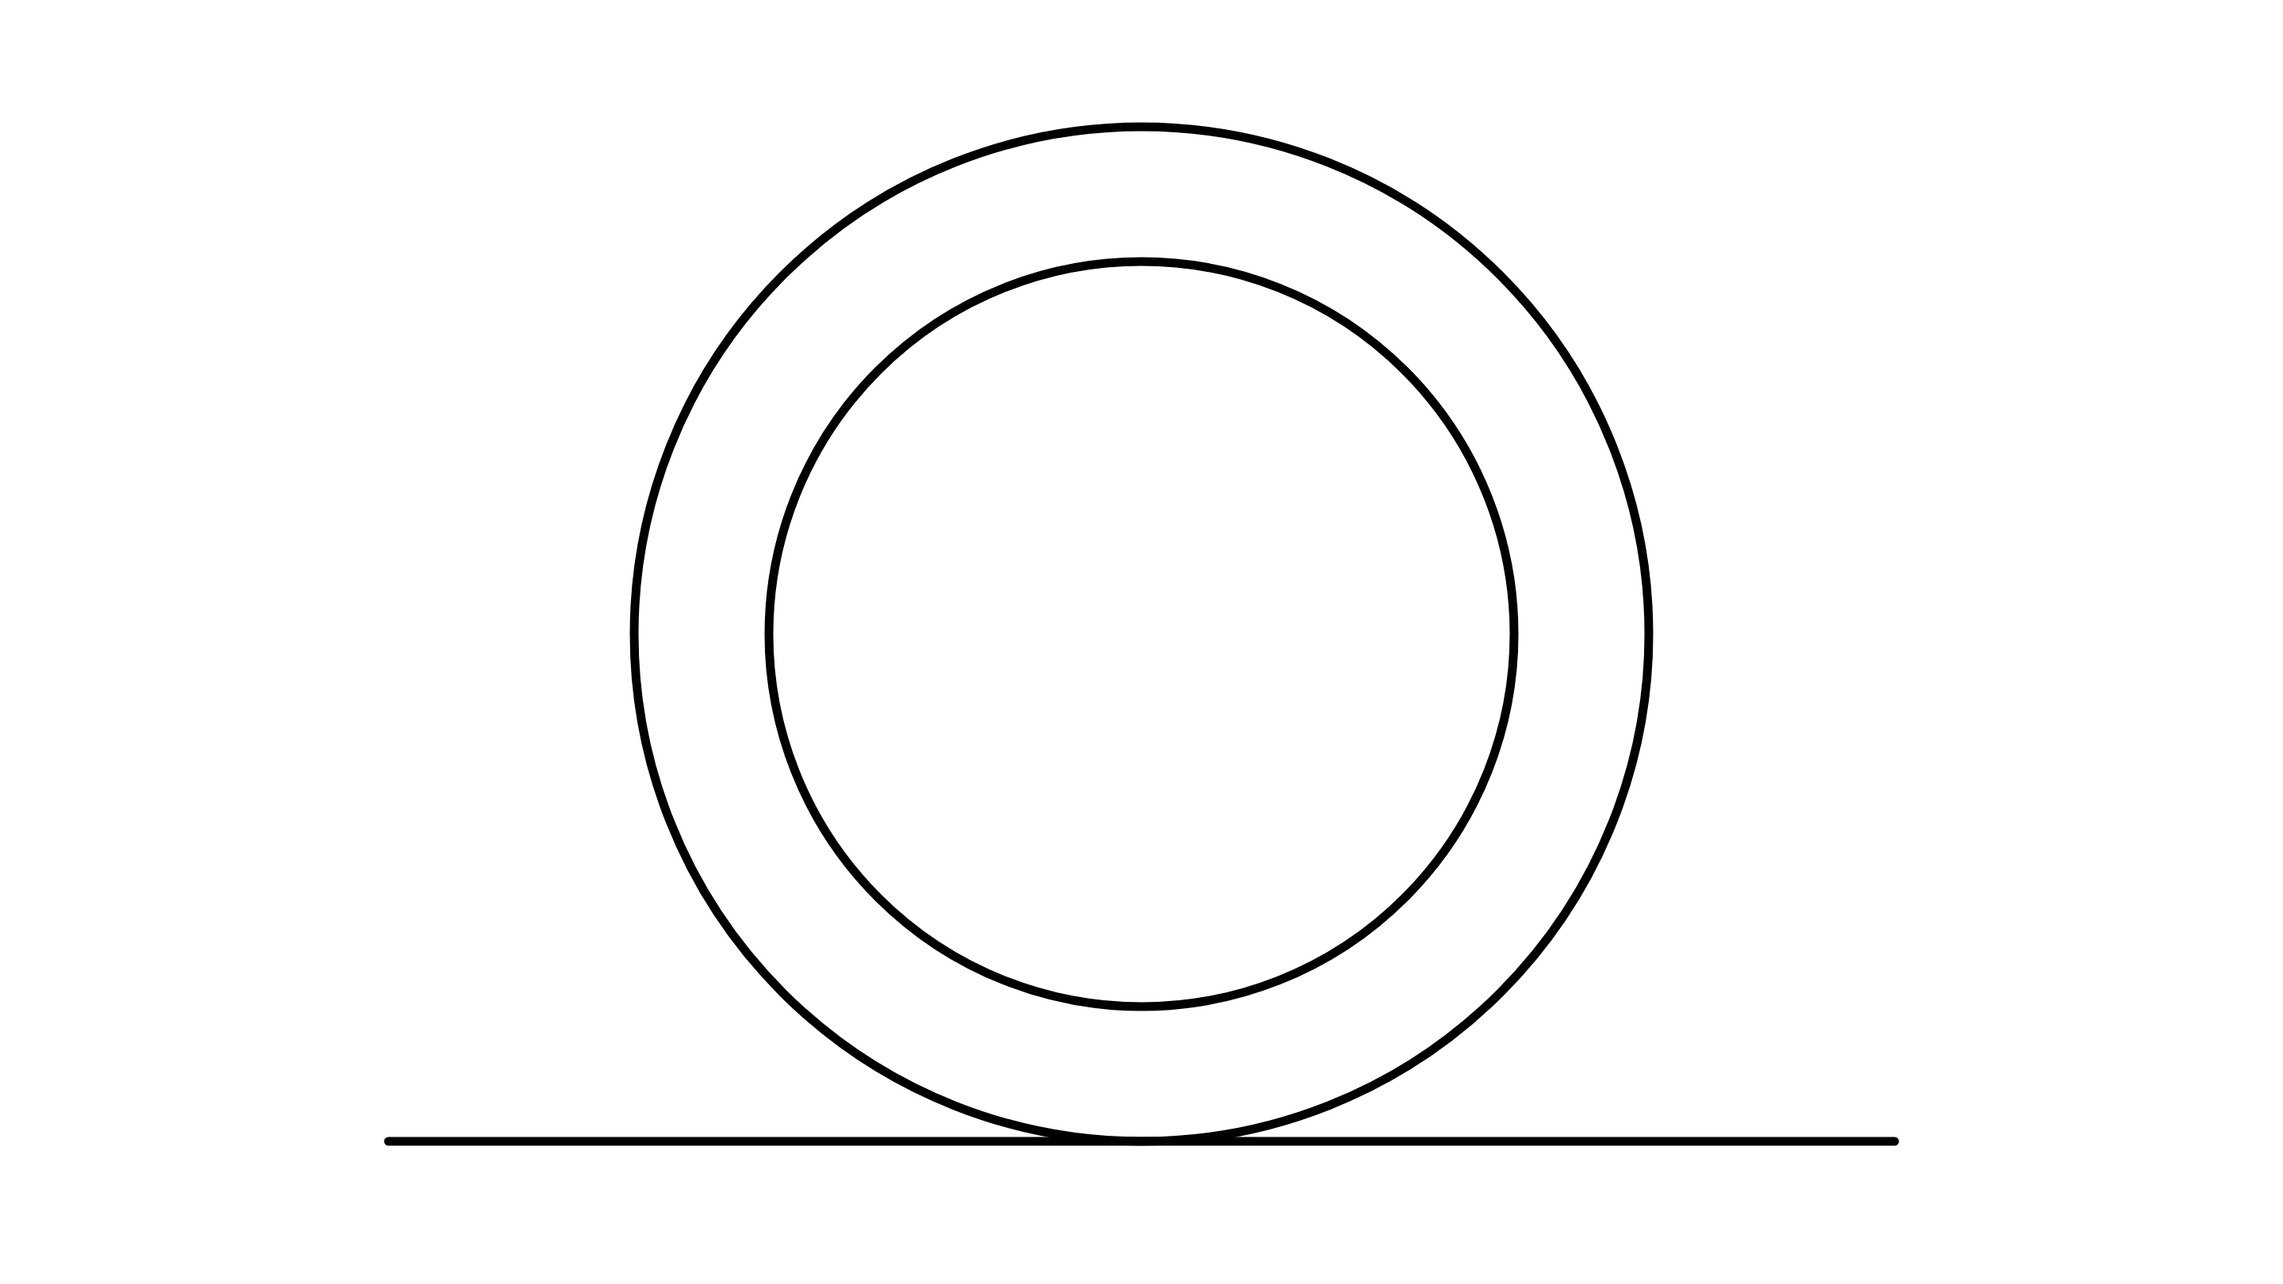
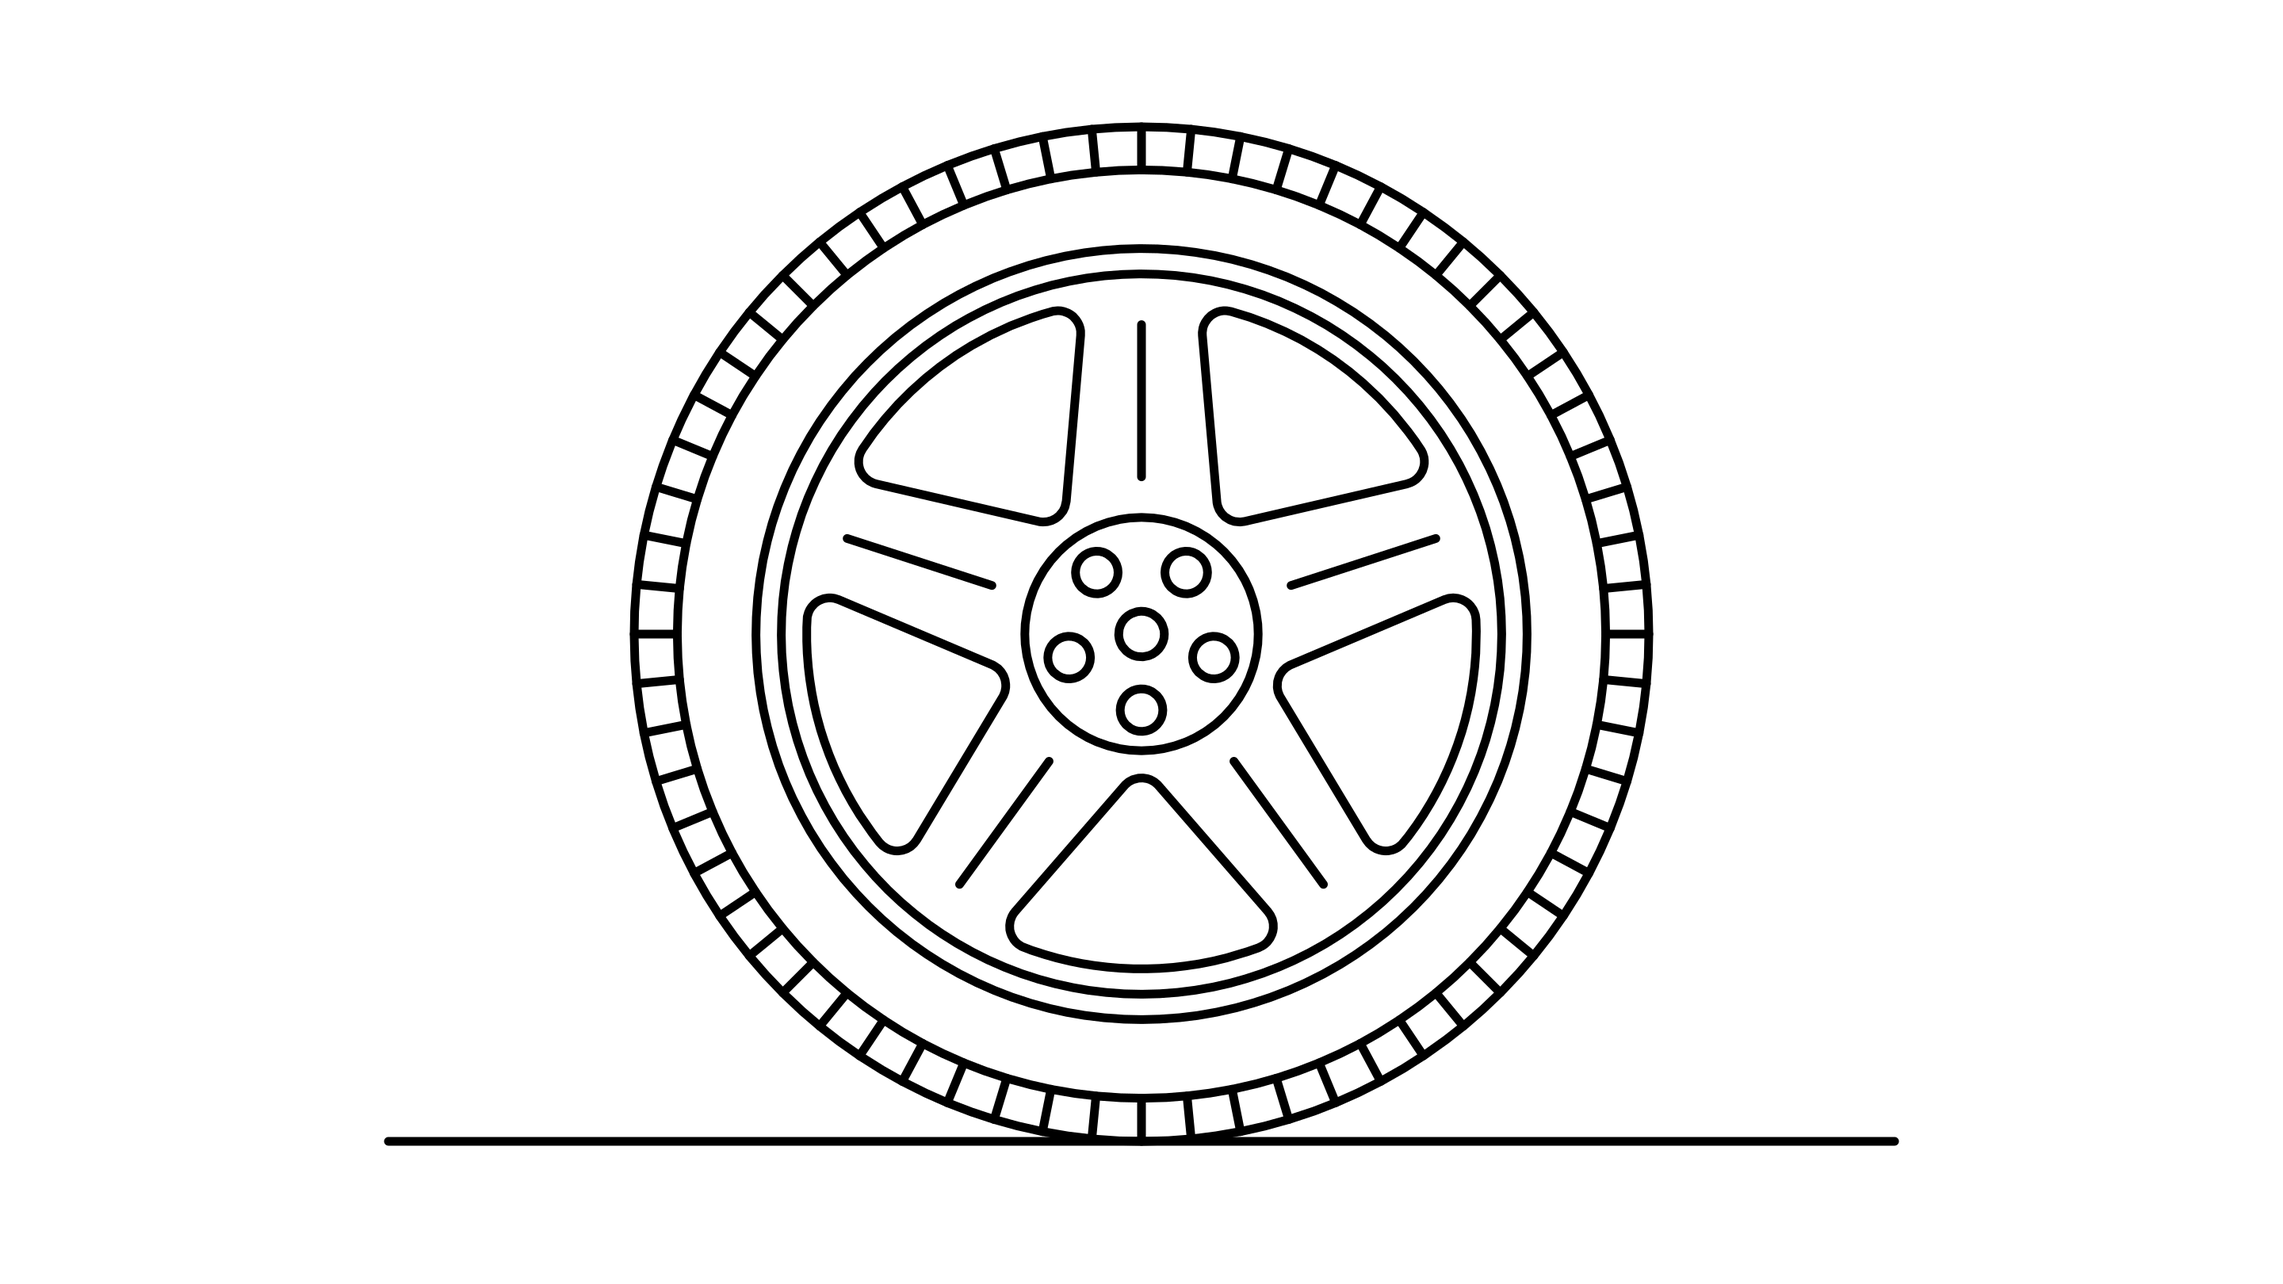
feat: Agregar popup intro a pantalla de Condición y Daños con ejemplos visuales de tipos de daño, popup de horarios de atención en dashboard, y actualizar plantillas PNG de llantas con diseño detallado

Changed region(s): [[0.2812, 0.1852, 0.7188, 0.8025], [0.3438, 0.7407, 0.6562, 0.8951], [0.3438, 0.0926, 0.6562, 0.2469]]

diff --git a/lib/features/dashboard/presentation/dashboard_screen.dart b/lib/features/dashboard/presentation/dashboard_screen.dart
@@ -147,7 +147,7 @@ class DashboardScreen extends ConsumerWidget {
 
                   Center(
                     child: GestureDetector(
-                      onTap: () => _openWhatsApp(),
+                      onTap: () => _showContactPopup(context),
                       child: Text(
                         '¿Necesitas ayuda?',
                         style: AppTypography.titleSmall.copyWith(
@@ -278,6 +278,155 @@ class DashboardScreen extends ConsumerWidget {
     }
   }
 
+  void _showContactPopup(BuildContext context) {
+    final c = context.colors;
+    showModalBottomSheet(
+      context: context,
+      backgroundColor: Colors.transparent,
+      isScrollControlled: true,
+      builder: (ctx) => FractionallySizedBox(
+        heightFactor: 0.96,
+        child: Container(
+          decoration: BoxDecoration(
+            color: c.surface,
+            borderRadius: const BorderRadius.vertical(
+              top: Radius.circular(AppSpacing.radiusXl),
+            ),
+          ),
+          child: Column(
+            crossAxisAlignment: CrossAxisAlignment.start,
+            children: [
+              Padding(
+                padding: const EdgeInsets.fromLTRB(AppSpacing.lg, AppSpacing.lg, AppSpacing.lg, 0),
+                child: Align(
+                  alignment: Alignment.topRight,
+                  child: GestureDetector(
+                    onTap: () => Navigator.of(ctx).pop(),
+                    child: Text(
+                      'Cerrar',
+                      style: AppTypography.bodyMedium.copyWith(fontWeight: FontWeight.w500),
+                    ),
+                  ),
+                ),
+              ),
+              Expanded(
+                child: Padding(
+                  padding: const EdgeInsets.all(AppSpacing.lg),
+                  child: Column(
+                    crossAxisAlignment: CrossAxisAlignment.start,
+                    children: [
+                      Text(
+                        'Nuestro horario\nde atención',
+                        style: AppTypography.headlineSmall.copyWith(fontWeight: FontWeight.w700),
+                      ),
+                      AppSpacing.vGapMd,
+                      Text(
+                        'Estamos disponibles para ayudarte con cualquier duda sobre el registro de tu vehículo.',
+                        style: AppTypography.bodyMedium.copyWith(color: c.textSecondary),
+                      ),
+                      AppSpacing.vGapXxl,
+                      Container(
+                        width: double.infinity,
+                        padding: const EdgeInsets.all(AppSpacing.md),
+                        decoration: BoxDecoration(
+                          color: c.surfaceVariant,
+                          borderRadius: AppSpacing.borderRadiusMd,
+                        ),
+                        child: Row(
+                          children: [
+                            Container(
+                              width: 44,
+                              height: 44,
+                              decoration: BoxDecoration(
+                                color: const Color(0xFF25D366).withValues(alpha: 0.15),
+                                borderRadius: AppSpacing.borderRadiusSm,
+                              ),
+                              child: const Icon(Icons.chat_outlined, color: Color(0xFF25D366), size: 22),
+                            ),
+                            AppSpacing.hGapMd,
+                            Expanded(
+                              child: Column(
+                                crossAxisAlignment: CrossAxisAlignment.start,
+                                children: [
+                                  Text('WhatsApp', style: AppTypography.titleSmall.copyWith(fontWeight: FontWeight.w700)),
+                                  AppSpacing.vGapXxs,
+                                  Text('+51 934 140 010', style: AppTypography.bodySmall.copyWith(color: c.textSecondary)),
+                                ],
+                              ),
+                            ),
+                          ],
+                        ),
+                      ),
+                      AppSpacing.vGapLg,
+                      Container(
+                        width: double.infinity,
+                        padding: const EdgeInsets.all(AppSpacing.md),
+                        decoration: BoxDecoration(
+                          color: c.surfaceVariant,
+                          borderRadius: AppSpacing.borderRadiusMd,
+                        ),
+                        child: Column(
+                          crossAxisAlignment: CrossAxisAlignment.start,
+                          children: [
+                            Row(
+                              children: [
+                                Icon(Icons.schedule, size: 18, color: c.textSecondary),
+                                AppSpacing.hGapSm,
+                                Text('Horarios', style: AppTypography.titleSmall.copyWith(fontWeight: FontWeight.w700)),
+                              ],
+                            ),
+                            AppSpacing.vGapMd,
+                            _ScheduleRow(label: 'Lunes a Viernes', hours: '9:00 am - 5:00 pm', colors: c),
+                            Padding(
+                              padding: const EdgeInsets.symmetric(vertical: AppSpacing.sm),
+                              child: Divider(height: 1, color: c.border),
+                            ),
+                            _ScheduleRow(label: 'Sábados', hours: '9:00 am - 12:00 pm', colors: c),
+                            Padding(
+                              padding: const EdgeInsets.symmetric(vertical: AppSpacing.sm),
+                              child: Divider(height: 1, color: c.border),
+                            ),
+                            _ScheduleRow(label: 'Domingos y feriados', hours: 'Cerrado', colors: c, closed: true),
+                          ],
+                        ),
+                      ),
+                    ],
+                  ),
+                ),
+              ),
+              SafeArea(
+                top: false,
+                child: Padding(
+                  padding: const EdgeInsets.all(AppSpacing.lg),
+                  child: SizedBox(
+                    width: double.infinity,
+                    height: 56,
+                    child: ElevatedButton(
+                      onPressed: () {
+                        Navigator.of(ctx).pop();
+                        _openWhatsApp();
+                      },
+                      style: ElevatedButton.styleFrom(
+                        backgroundColor: const Color(0xFF292929),
+                        foregroundColor: Colors.white,
+                        elevation: 0,
+                        shape: RoundedRectangleBorder(borderRadius: AppSpacing.borderRadiusXl),
+                      ),
+                      child: Text(
+                        'Contactar por WhatsApp',
+                        style: AppTypography.button.copyWith(color: Colors.white),
+                      ),
+                    ),
+                  ),
+                ),
+              ),
+            ],
+          ),
+        ),
+      ),
+    );
+  }
+
   void _showUserMenu(BuildContext context) {
     final c = context.colors;
     showModalBottomSheet(
@@ -404,6 +553,37 @@ class _DashboardStep {
     required this.completed,
     required this.route,
   });
+}
+
+class _ScheduleRow extends StatelessWidget {
+  final String label;
+  final String hours;
+  final AdaptiveColors colors;
+  final bool closed;
+
+  const _ScheduleRow({
+    required this.label,
+    required this.hours,
+    required this.colors,
+    this.closed = false,
+  });
+
+  @override
+  Widget build(BuildContext context) {
+    return Row(
+      mainAxisAlignment: MainAxisAlignment.spaceBetween,
+      children: [
+        Text(label, style: AppTypography.bodySmall),
+        Text(
+          hours,
+          style: AppTypography.bodySmall.copyWith(
+            fontWeight: FontWeight.w600,
+            color: closed ? AppColors.error : colors.textPrimary,
+          ),
+        ),
+      ],
+    );
+  }
 }
 
 class _StepCard extends StatelessWidget {

diff --git a/lib/features/condition_damage/presentation/condition_damage_screen.dart b/lib/features/condition_damage/presentation/condition_damage_screen.dart
@@ -8,11 +8,184 @@ import '../../../core/theme/app_typography.dart';
 import '../../../shared/providers/providers.dart';
 import '../../../shared/widgets/widgets.dart';
 
-class ConditionDamageScreen extends ConsumerWidget {
+class ConditionDamageScreen extends ConsumerStatefulWidget {
   const ConditionDamageScreen({super.key});
 
   @override
-  Widget build(BuildContext context, WidgetRef ref) {
+  ConsumerState<ConditionDamageScreen> createState() => _ConditionDamageScreenState();
+}
+
+class _ConditionDamageScreenState extends ConsumerState<ConditionDamageScreen> {
+  @override
+  void initState() {
+    super.initState();
+    WidgetsBinding.instance.addPostFrameCallback((_) => _showIntroPopup());
+  }
+
+  static const _damageExamples = [
+    {
+      'image': 'assets/images/condicion-danos/condicion-abolladura.jpeg',
+      'title': 'Abolladura',
+      'description': 'Hundimiento en el panel lateral de la puerta causado por un impacto. Requiere trabajo de desabollado y posible repintado de la zona afectada.',
+    },
+    {
+      'image': 'assets/images/condicion-danos/condicion-quine.jpeg',
+      'title': 'Quiñe',
+      'description': 'Desconche de pintura en el borde de la puerta por golpe menor. Se repara con retoque de pintura o repintado parcial del panel.',
+    },
+    {
+      'image': 'assets/images/condicion-danos/condicion-rayadura.jpeg',
+      'title': 'Rayadura en parachoques',
+      'description': 'Rayas superficiales en el parachoques delantero por roce. Se corrige con pulido profesional o repintado si es profunda.',
+    },
+    {
+      'image': 'assets/images/condicion-danos/condicion-rayadura-3.jpeg',
+      'title': 'Rayadura en carrocería',
+      'description': 'Rayas y marcas de roce en el parachoques trasero. Requiere pulido o repintado dependiendo de la profundidad del daño.',
+    },
+    {
+      'image': 'assets/images/condicion-danos/condicion-rayadura-faro.jpeg',
+      'title': 'Rayadura en faro',
+      'description': 'Rayas y opacidad en la mica del faro delantero por desgaste. Se restaura con kit de pulido de faros o reemplazo de la mica.',
+    },
+    {
+      'image': 'assets/images/condicion-danos/condicion-rajado-faro.jpeg',
+      'title': 'Faro rajado',
+      'description': 'Rajadura visible en la mica del faro trasero. Requiere reemplazo completo del faro ya que no se puede reparar.',
+    },
+    {
+      'image': 'assets/images/condicion-danos/condicion-pintura.jpeg',
+      'title': 'Pintura desgastada',
+      'description': 'Decoloración y desgaste de la pintura en la puerta por exposición solar. Necesita lijado y repintado completo del panel.',
+    },
+    {
+      'image': 'assets/images/condicion-danos/condicion-pintura-reventada.jpeg',
+      'title': 'Pintura reventada',
+      'description': 'Pintura levantada y descascarada en el parachoques, exponiendo la base. Requiere lijado, preparación y repintado de la zona.',
+    },
+    {
+      'image': 'assets/images/condicion-danos/condicion-desgaste-llantas.jpeg',
+      'title': 'Desgaste de llantas',
+      'description': 'Llanta con banda de rodamiento severamente gastada y agrietada. Requiere reemplazo inmediato por seguridad.',
+    },
+    {
+      'image': 'assets/images/condicion-danos/condicion-descuadrado.jpeg',
+      'title': 'Panel descuadrado',
+      'description': 'Desalineación del parachoques trasero respecto a la carrocería. Indica un golpe previo; requiere alineación o reemplazo del panel.',
+    },
+  ];
+
+  void _showIntroPopup() {
+    final c = context.colors;
+    showModalBottomSheet(
+      context: context,
+      backgroundColor: Colors.transparent,
+      isScrollControlled: true,
+      isDismissible: false,
+      enableDrag: false,
+      builder: (ctx) => FractionallySizedBox(
+        heightFactor: 0.96,
+        child: Container(
+          decoration: BoxDecoration(
+            color: c.surface,
+            borderRadius: const BorderRadius.vertical(
+              top: Radius.circular(AppSpacing.radiusXl),
+            ),
+          ),
+          child: Column(
+            children: [
+              Padding(
+                padding: const EdgeInsets.fromLTRB(AppSpacing.lg, AppSpacing.lg, AppSpacing.lg, 0),
+                child: Align(
+                  alignment: Alignment.topRight,
+                  child: GestureDetector(
+                    onTap: () => Navigator.of(ctx).pop(),
+                    child: Text(
+                      'Cerrar',
+                      style: AppTypography.bodyMedium.copyWith(fontWeight: FontWeight.w500),
+                    ),
+                  ),
+                ),
+              ),
+              Expanded(
+                child: SingleChildScrollView(
+                  padding: const EdgeInsets.all(AppSpacing.lg),
+                  child: Column(
+                    crossAxisAlignment: CrossAxisAlignment.start,
+                    children: [
+                      Text(
+                        'Tipos de daños',
+                        style: AppTypography.headlineSmall.copyWith(fontWeight: FontWeight.w700),
+                      ),
+                      AppSpacing.vGapSm,
+                      Text(
+                        'Estos son ejemplos de los daños más comunes que debes reportar en tu vehículo.',
+                        style: AppTypography.bodyMedium.copyWith(color: c.textSecondary),
+                      ),
+                      AppSpacing.vGapXxl,
+                      ..._damageExamples.map((example) => Padding(
+                        padding: const EdgeInsets.only(bottom: AppSpacing.xxl),
+                        child: Column(
+                          crossAxisAlignment: CrossAxisAlignment.start,
+                          children: [
+                            Text(
+                              example['title']!,
+                              style: AppTypography.titleMedium.copyWith(fontWeight: FontWeight.w700),
+                            ),
+                            AppSpacing.vGapXs,
+                            Text(
+                              example['description']!,
+                              style: AppTypography.bodySmall.copyWith(color: c.textSecondary),
+                            ),
+                            AppSpacing.vGapMd,
+                            ClipRRect(
+                              borderRadius: AppSpacing.borderRadiusMd,
+                              child: Image.asset(
+                                example['image']!,
+                                width: double.infinity,
+                                height: 200,
+                                fit: BoxFit.cover,
+                              ),
+                            ),
+                          ],
+                        ),
+                      )),
+                    ],
+                  ),
+                ),
+              ),
+              SafeArea(
+                top: false,
+                child: Padding(
+                  padding: const EdgeInsets.all(AppSpacing.lg),
+                  child: SizedBox(
+                    width: double.infinity,
+                    height: 56,
+                    child: ElevatedButton(
+                      onPressed: () => Navigator.of(ctx).pop(),
+                      style: ElevatedButton.styleFrom(
+                        backgroundColor: const Color(0xFF292929),
+                        foregroundColor: Colors.white,
+                        elevation: 0,
+                        shape: RoundedRectangleBorder(borderRadius: AppSpacing.borderRadiusXl),
+                      ),
+                      child: Text(
+                        'OK, entendido',
+                        style: AppTypography.button.copyWith(color: Colors.white),
+                      ),
+                    ),
+                  ),
+                ),
+              ),
+            ],
+          ),
+        ),
+      ),
+    );
+  }
+
+  @override
+  Widget build(BuildContext context) {
     final registrationState = ref.watch(vehicleRegistrationProvider);
 
     return Scaffold(
